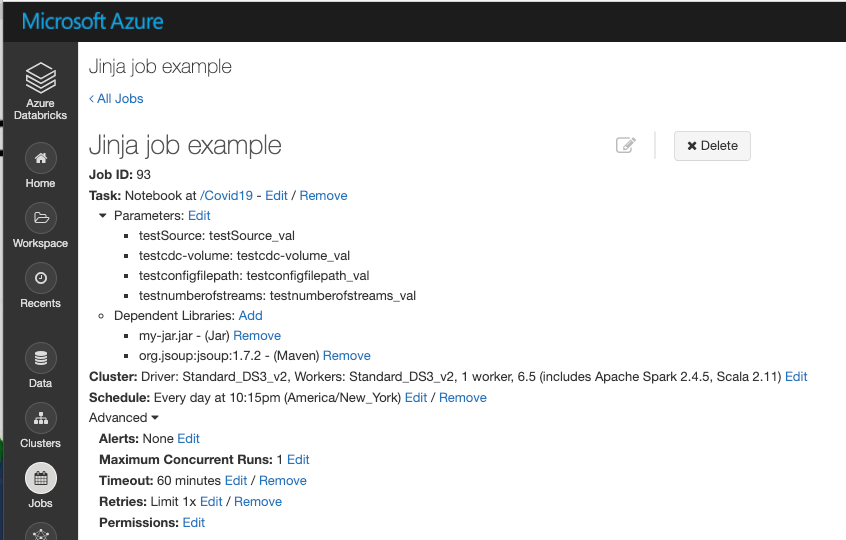
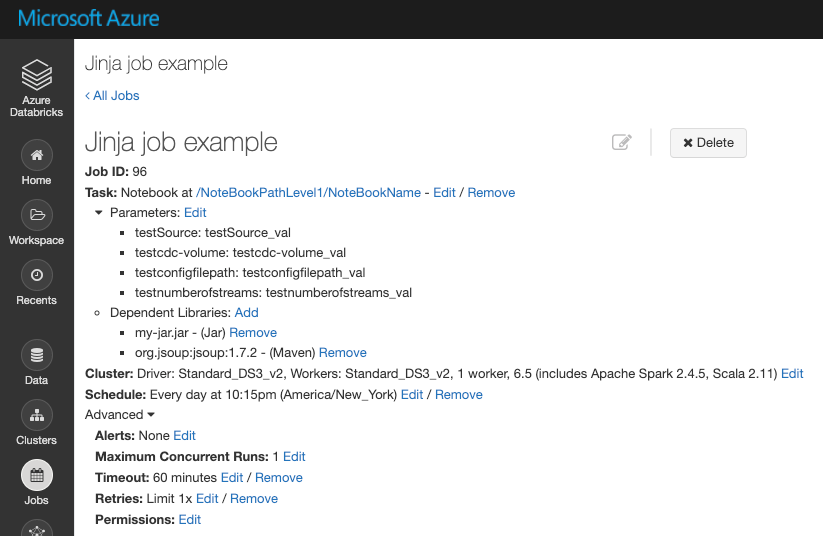
updated notebook path reference, image in readme

diff --git a/README.md b/README.md
@@ -83,7 +83,7 @@ The JSON job templates provided in the `\jobs\` folder contains base values requ
   {
     "name": "Jinja job example",
     "workers": 1,
-    "notebookpath": "/NoteBookName",
+    "notebookpath": "/NoteBookPathLevel1/NoteBookName",
 
     "par_sourcesystem": "testSource",
     "par_sourcesystem_val": "testSource_val",
@@ -100,7 +100,6 @@ The JSON job templates provided in the `\jobs\` folder contains base values requ
     "description": "Not used in template, for reference"
   }
 ```
-If the Notebook is nested in a path, use the full path name. Example: "/NoteBookPathLevel1/NoteBookName" or "/NoteBookPathLevel1/NoteBookPathLevel2/NoteBookName"
 
 ### Jinja2 template snippet
 
